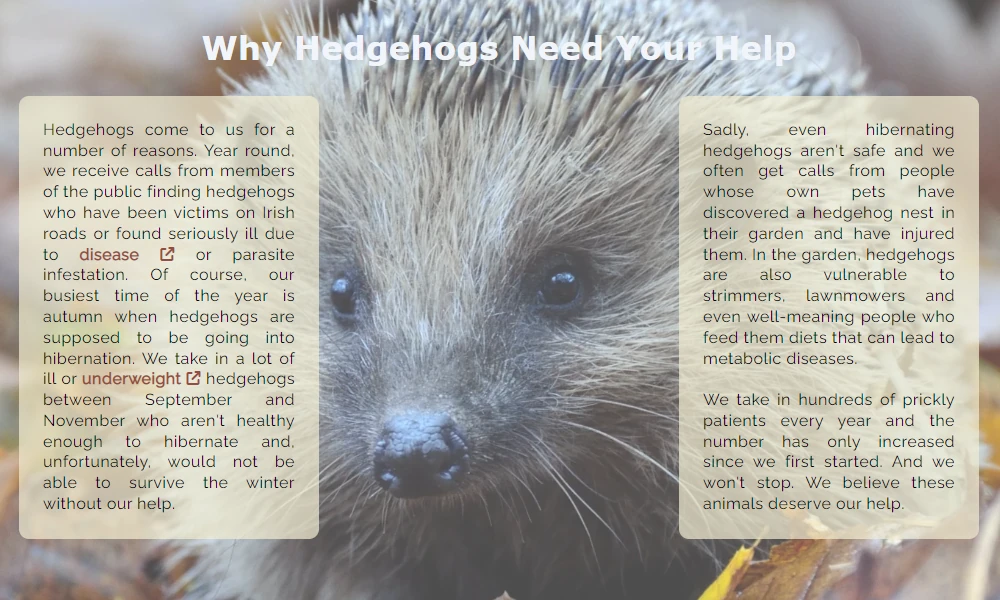
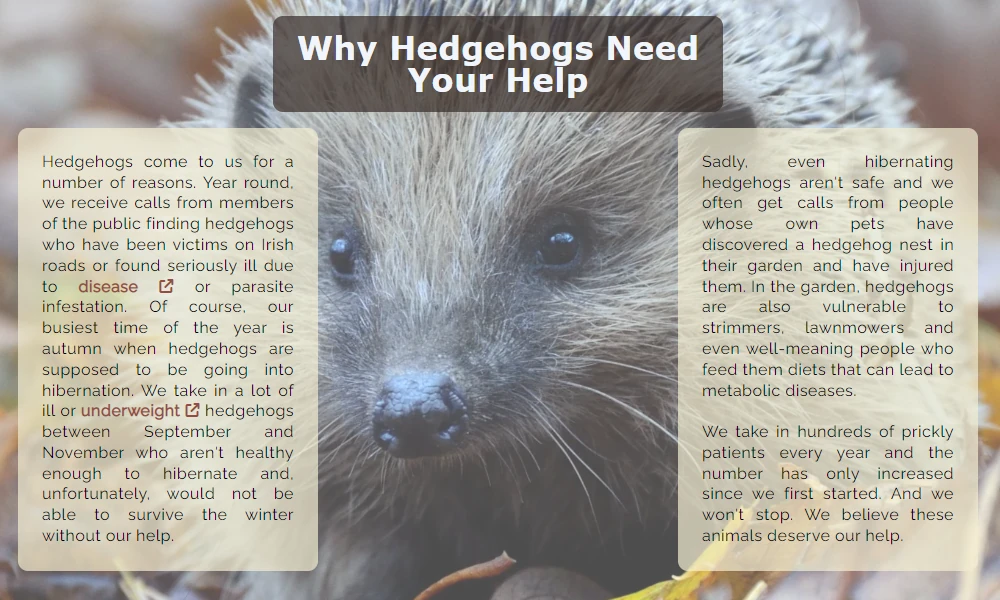
Change reasons.webp img in readme. Fix types on readme. Adjust positioning in how-box

diff --git a/assets/css/style.css b/assets/css/style.css
@@ -272,6 +272,7 @@ nav {
     max-height: 300px;
     border-radius: 10px;
     overflow: hidden;
+    position: relative;
 }
 
 .how-box > img {
@@ -280,7 +281,7 @@ nav {
     object-fit: contain;
     opacity: 1;
     transition: opacity 0.5s linear;
-    position: relative;
+    position: absolute;
     z-index: 1;
 }
 
@@ -291,8 +292,8 @@ nav {
     height: 100%;
     padding: 4em 2.5em;
     text-align: justify;
-    position: relative;
-    top: -305px;
+    position: absolute;
+    top: 0;
     left: 0;
 }
 

diff --git a/README.md b/README.md
@@ -44,7 +44,7 @@ What goals the organisation may have for the website:
 - The header element features a navbar that is used across all pages. It remains at the top of the screen as the user scrolls down the site so they can easily navigate to different pages on narrower devices without having to scroll back to the top to find navigation.
 - On the right of the navbar are links to the three main pages of the website. On hover, the links transition to green to acknowledge the users interaction. The "active" page has a bottom-border in green to reflect which page the user is currently on.
 - The navbar features a logo to the left side which navigates to the main page. On larger screens the logo features a hedgehog with text of the name of the organisation. On smaller devices, the logo is replaced with a simple hedgehog to maintain branding but provide space for the links. On very small screens, the logo is removed to allow the links to be easily accessed and prevent misclicking on small devices.
-- The background colour is a dark brown and the text is in white to provide good contrast. The transition and bottom-border are in green as it an appropriate colour for the theme of the site and contrasts well with the brown.
+- The background colour is a dark brown and the text is in white to provide good contrast. The transition and bottom-border are in green as it is an appropriate colour for the theme of the site and contrasts well with the brown.
 
   ![Navbar](readme-docs/hog-hosp-navbar.webp)
 
@@ -54,10 +54,10 @@ What goals the organisation may have for the website:
 
 ### Index Page
 
-The first page comprises four sections that introduce the user to the organisation, provide information about work of the organisation, and features a video accompanied by a call to action and an invitation to explore the website further.
+The first page comprises four sections that introduce the user to the organisation, provide information about the work of the organisation, and features a video accompanied by a call to action and an invitation to explore the website further by way of inline links in the accompanying text.
 
 #### Hero Image - index.html
-- The hero section contains a large hero image of a hedgehog overlaid by the title of the website and organisation.
+- The hero section contains a large image of a hedgehog overlaid by the title of the website and organisation.
 - The title features an ease-in transition when the page loads to draw the users eye.
 - The section contains a call-to-action contact button below the title. Although the contact page is easily visible on the navigation bar, the button being immediately displayed in the header means the user can find contact information quickly. The button is styled in a dark red colour taken from the hero image itself with text in white. On hover, the button's colour scheme is inverted.
 
@@ -66,7 +66,7 @@ The first page comprises four sections that introduce the user to the organisati
 #### About Section
 - The about section features three short paragraphs of text giving the user an introduction to the organisation. These paragraphs are intentionally short so as not to overload the user with information immediately on arrival and to encourage the user to keep reading. 
 - The section is styled such that on large screens the paragraphs display as a row, but wrap to fit beneath each other on smaller devices.
-- The text contains inline links to the How To Help page and Contact Us page, where appropriate. These are styled in the sam dark red colour as the CTA button in the Hero section.
+- The text contains inline links to the How To Help page and Contact Us page, where appropriate. These are styled in the same dark red colour as the CTA button in the Hero section.
 
 #### Why Help Hedgehogs Section
 - This section provides information to the user about the reasons animals come into the care of the organisation. This serves to provide motivation for the user to become emotionally invested in the work the organisation undertakes.
@@ -92,7 +92,7 @@ The second page of the site is similarly comprised of four sections. It focuses 
 - Comprised of text and an accompanying image, the introductory section of this page encourages the user to support the organisation by giving a summary of the ways available to help.
 
 #### How You Can Help Section
-- This presents the three main means of help that the organisation accepts.
+- This presents the main means of help that the organisation accepts.
 - It is styled on a light background that highlights the images as important features and separates them from the sections above and below. The three images are styled to wrap on smaller devices while remaining centered on the page. Using the hover pseudoclass, the user can interact with the images so that the image transitions to text specific to the option they are interacting with. 
 
   ![How To Help](readme-docs/how-to.webp)
@@ -141,6 +141,7 @@ On an animal related website, users expect visual content of animals so the site
 - The hero images were chosen for being large quality, close up images. The positioning of the hedgehogs in the images gives the impression of them approaching or looking to the headings in the hero sections.
 - Linear-gradients were applied in the CSS to the background image on the Why Help Hedgehogs section of the index age and the background image of the contact page. This improved readability of the text over the images but still allowed them to be viewed clearly. 
 - The images used on the website were edited in Gimp and exported as webp to reduce size. The large background of the contact page was compressed using TinyPNG to improve performance.
+- Where necessary, background colours are set in case the large background images do not load.
 
 ### Colour
 The colours used were sampled from the hero image on the index page. They include a dark brown, dark red, green, light yellow and off-white. A black was used for text that was chosen separately. The colours were chosen to convey an overall earthy and natural feel. Several were tested for readability until the final selection were decided. It was decided not to use to many or too vibrant colours and to allow the imagery to be the focus.
